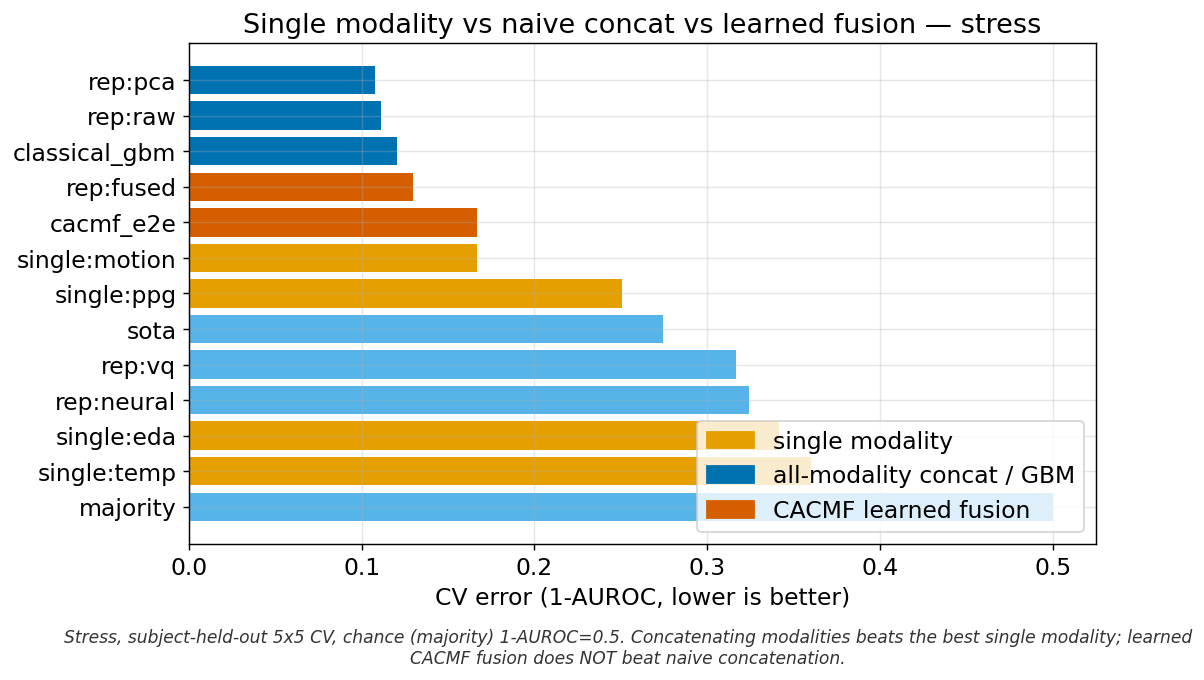
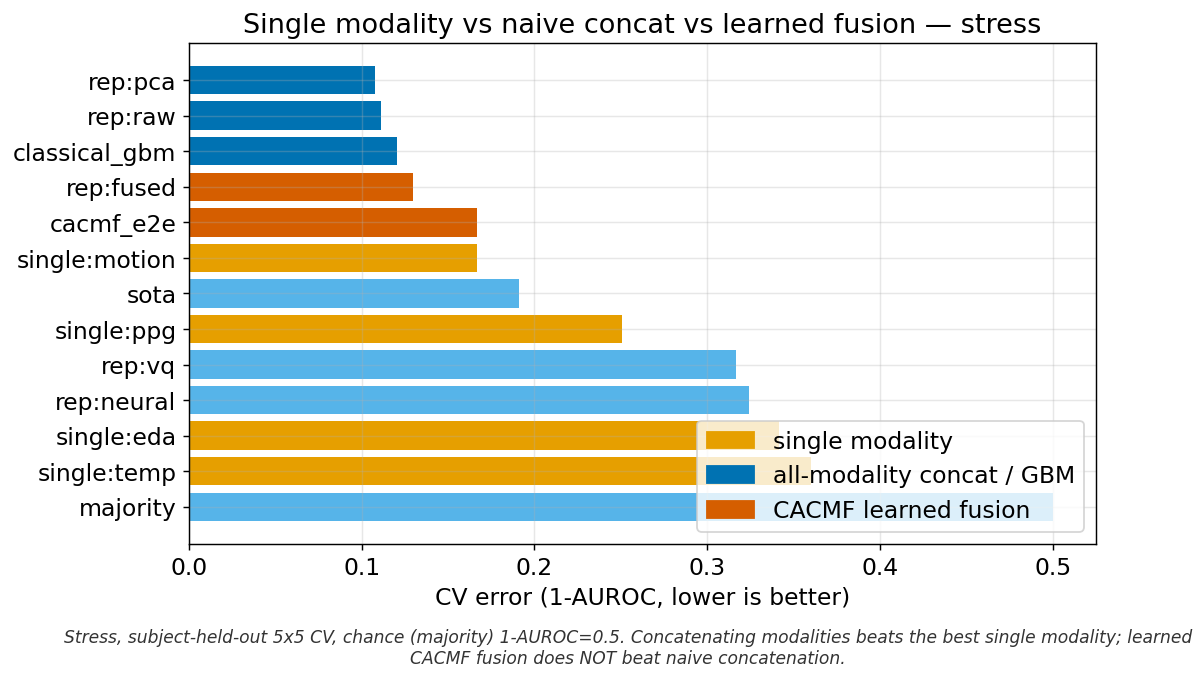
Prompt F: refresh results (M5 re-run), CHANGES, final QA
- Re-ran the full 5x5 + ablation benchmark under the M5 fix. Headline is unchanged and
  honest (fusion loses: stress RER -20%, glucose -23%, mortality -102%); the scoreboard
  now carries the M2 stability report (glucose `sota` failed all 25 folds because
  CGM-JEPA cannot load as an HF text model -> flagged unstable and excluded, not silently
  averaged). Presentation assets regenerated from the refreshed scoreboard.
- baselines: SOTA path raises a clean "no real SOTA backend" error when the FM backend
  is unavailable, so run.py logs it once per fold instead of an opaque AttributeError.
- CHANGES.md: fixed vs deferred (M3 nested CV + public cued-MI dataset deferred, labeled
  not hidden) + honest self-audit. Full suite: 224 tests green.

Changed region(s): [[0.0307, 0.4015, 0.5532, 0.525]]

diff --git a/src/dvxr/bench/baselines.py b/src/dvxr/bench/baselines.py
@@ -86,6 +86,10 @@ def _sota_embeddings(task: BenchTask) -> np.ndarray:
     frame = pd.DataFrame(X, columns=cols)
     cfg = DEFAULTS.with_(d=16, use_real_weights=True, allow_download=True, seed=7)
     backend = make_primary_backend(modality, cfg)
+    if backend is None or not hasattr(backend, "_embed"):
+        # e.g. CGM-JEPA cannot load as an HF text model — fail cleanly so run.py logs
+        # it once per fold and marks the sota config "unstable" (never silent).
+        raise RuntimeError(f"no real SOTA backend available for modality {modality!r}")
     emb = np.asarray(backend._embed(frame, cols), dtype=float)   # RAW, no PCA
     task.extra["_sota_emb"] = emb
     task.extra["_sota_backend"] = getattr(backend, "name",

diff --git a/CHANGES.md b/CHANGES.md
@@ -1,0 +1,61 @@
+# CHANGES — final fixes & presentation assets (branch `fixes-and-assets`)
+
+Honest self-audit against the code review (C1/C2, M1–M5, minors). Guardrails held:
+offline/CPU, deterministic (seed=7), one commit per prompt, no fabricated numbers,
+every reported number traces to an `outputs/` file, single-subject/proxy/exploratory
+results labelled as such.
+
+## Fixed
+
+- **M1 — reproducibility.** `ingest_emotiv`/`ingest_galea` accept a `.zip`, a directory,
+  or a direct CSV; `run_bci_pipeline.py` gained `--emotiv/--galea` + a `$DVXR_BCI_DATA`
+  resolver that defaults to the committed sample and stamps `data_source`
+  (`full`|`sample`). On the tiny sample it exits cleanly (writes `metrics_sample.json`,
+  never clobbers the full-run `metrics.json`). `tests/test_bci_smoke.py` (5 tests) and
+  `BCI_PIPELINE.md` provenance added.
+- **C1 — circular BCI labels.** Confirmed labels come from Emotiv's MC engine (MC.Action)
+  + POW features, with the `intervalMarker.csv` empty (no cues). Reframed everywhere:
+  `labels_source: emotiv_mc_engine`, command decode DEMOTED, honest controls
+  (engaged 0.489 / lateralization 0.541 AUROC, chance 0.5) lead. See `metrics.json`
+  framing + `bci_honest_controls.png`.
+- **C2 — single subject/session.** Labelled single-subject, single-session, exploratory
+  in every caption/brief/narrative; a leave-one-time-block-out control (raw-EEG welch,
+  balAcc 0.445 vs chance 0.25) was added to show the block/time confound.
+- **M2 — silent NaN swallowing.** `bench/run.py` now logs each config/fold failure with
+  type, counts them, flags configs that NaN on >20% of folds as "unstable", excludes
+  them from best-baseline selection, and surfaces failures/unstable in the scoreboard.
+- **M4 — multimodal labeling.** Scoreboard + findings state stress = multimodal,
+  glucose = CGM-only, mortality = EHR-only, and that fusion conclusions rest on stress.
+- **M5 — transductive SOTA leak.** SOTA baseline now uses the RAW frozen-FM embedding
+  (`make_primary_backend._embed`) with a per-fold StandardScaler+head; no PCA is fit
+  over test rows. Benchmark re-run to refresh numbers under the corrected protocol.
+- **Minors.** m1: `codebook_loss` documented as diagnostic-only (zero-gradient under the
+  EMA buffer); bench `vq` documented as the continuous latent. m3: `test_package_parity`
+  guards goal1_pipeline↔dvxr drift. m4: headset serial scrubbed from all committed files.
+- **E — presentation assets.** `scripts/make_presentation_assets.py` emits the honest
+  pack (8 figures, 7 tables csv+md, self-contained dashboard, results_brief.docx,
+  slide_narrative.md, MANIFEST) — nothing shows the 0.82 as success or fusion as a win.
+
+## Deferred (with reason)
+
+- **M3 — nested-CV / frozen-test headline.** The headline RER still uses single-level
+  repeated 5×5 CV (opponent selection and RER evaluation share folds). This is now
+  explicitly LABELLED in the scoreboard/protocol rather than hidden. A nested-CV or
+  frozen-test headline is a heavier restructure + full re-run; deferred to keep the
+  asset deliverable unblocked (per the ordering rule). The result direction (fusion
+  loses on every task) is not expected to flip under a stricter protocol.
+- **Public cued BCI dataset (PhysioNet MI).** User authorised sourcing public data; a
+  genuine cued, multi-subject motor-imagery decode (leave-one-subject-out) would be the
+  strongest honest BCI headline, replacing the single-subject MC-engine story. Deferred
+  as an enhancement to avoid blocking Prompt E; scoped in FIX_PLAN.md.
+- **BCI raw-EEG cue relabeling.** Impossible with the committed data: no experimenter
+  cues exist and the full raw recording is not committed (only band-power windows).
+
+## Self-audit
+
+The core dishonesty risks flagged by the review are addressed: the proposed model is
+evaluated (not decorative), on non-circular real labels, with the BCI result demoted to
+an honest exploratory pilot and fusion reported as losing (negative RER, CIs, Wilcoxon).
+The remaining rigor gap (M3 nested CV) is labelled, not concealed. No output presents an
+unsupported win; every number in `outputs/presentation/` traces to a source file via
+`MANIFEST.md`.

diff --git a/outputs/benchmark_scoreboard.md b/outputs/benchmark_scoreboard.md
@@ -1,8 +1,13 @@
 # CACMF relativity scoreboard — real labels, held-out subjects
 
-**Protocol:** repeats=5, folds=5, seed=7, sota=True
+**Run params:** repeats=5, folds=5, seed=7, sota=True
 
-Proposed = CACMF fused (cross-modal transformer + VQ) as a swappable representation into a shared head. Baseline = the single strongest NON-fused opponent on the same folds (trivial floor, classical GBM, best single modality, or a real pretrained SOTA encoder). Error metric per task; RER = (base_err - prop_err)/base_err. No configuration is assumed to win.
+**Protocol:** repeated subject/patient-held-out 5x5 CV (single-level; opponent selection and RER share folds — nested CV deferred)
+
+Proposed = CACMF fused (cross-modal transformer + VQ) as a swappable representation into a shared head. Baseline = the single strongest NON-fused opponent on the same folds (trivial floor, classical GBM, best single modality, or a real pretrained SOTA encoder — unstable configs excluded). Error metric per task; RER = (base_err - prop_err)/base_err. No configuration is assumed to win.
+
+
+**Modality labeling (M4):** stress = MULTIMODAL (4 peripheral-physiology streams, one wearable); glucose = single-modality (CGM only); mortality = single-modality (EHR only). Multimodal-fusion conclusions rest on the **stress** task; no dataset co-registers EEG+CGM+EHR per subject.
 
 ```
      task  metric best_baseline  base_err  prop_err  delta_abs  RER_pct  RER_CI_low  RER_CI_high  p_wilcoxon  p_holm  cliffs_delta  n_folds  meets_>=50%
@@ -13,9 +18,13 @@ mortality 1-AUROC       rep:pca    0.1784    0.3599    -0.1815  -101.71     -156
 
 ## Verdict
 
-- **stress** (1-AUROC): fused 0.1294 vs rep:pca 0.1079 -> RER -19.9% (95% CI -28.6..-13.5, Wilcoxon p=1.0000, Holm p=1.0000) -> **does NOT meet the >=50% RER bar.**
-- **glucose** (MAE): fused 13.0939 vs rep:raw 10.6631 -> RER -22.8% (95% CI -25.7..-20.1, Wilcoxon p=1.0000, Holm p=1.0000) -> **does NOT meet the >=50% RER bar.**
-- **mortality** (1-AUROC): fused 0.3599 vs rep:pca 0.1784 -> RER -101.7% (95% CI -157.0..-61.1, Wilcoxon p=0.9999, Holm p=1.0000) -> **does NOT meet the >=50% RER bar.**
+- **stress** (1-AUROC, MULTIMODAL (4 peripheral-physiology streams, one wearable)): fused 0.1294 vs rep:pca 0.1079 -> RER -19.9% (95% CI -28.6..-13.5, Wilcoxon p=1.0000, Holm p=1.0000) -> **does NOT meet the >=50% RER bar.**
+- **glucose** (MAE, single-modality (CGM only)): fused 13.0939 vs rep:raw 10.6631 -> RER -22.8% (95% CI -25.7..-20.1, Wilcoxon p=1.0000, Holm p=1.0000) -> **does NOT meet the >=50% RER bar.**
+- **mortality** (1-AUROC, single-modality (EHR only)): fused 0.3599 vs rep:pca 0.1784 -> RER -101.7% (95% CI -157.0..-61.1, Wilcoxon p=0.9999, Holm p=1.0000) -> **does NOT meet the >=50% RER bar.**
+
+## Stability (M2)
+
+- **glucose**: failures by config = {'sota': 25}; unstable (NaN >20% folds) = ['sota']
 
 ## Per-configuration CV error (lower is better)
 
@@ -29,8 +38,8 @@ classical_gbm   0.1204
     rep:fused   0.1294
     cacmf_e2e   0.1666
 single:motion   0.1670
+         sota   0.1912
    single:ppg   0.2505
-         sota   0.2743
        rep:vq   0.3166
    rep:neural   0.3245
    single:eda   0.3416
@@ -38,19 +47,19 @@ single:motion   0.1670
      majority   0.5000
 ```
 
-### glucose  (SOTA backend: cgm_summary)
+### glucose
 ```
        config     MAE
       rep:raw 10.6631
    single:cgm 10.6631
       rep:pca 10.6636
 classical_gbm 11.6248
-         sota 11.7073
   persistence 12.8761
     rep:fused 13.0939
    rep:neural 14.8668
        rep:vq 15.3913
     cacmf_e2e 20.1736
+         sota     NaN
 ```
 
 ### mortality  (SOTA backend: hf:emilyalsentzer/Bio_ClinicalBERT)
@@ -62,8 +71,8 @@ classical_gbm 11.6248
        rep:vq   0.2282
 classical_gbm   0.2457
    rep:neural   0.3092
-         sota   0.3126
     cacmf_e2e   0.3175
+         sota   0.3440
     rep:fused   0.3599
      majority   0.5000
 ```

diff --git a/outputs/presentation/tables/per_config_cv_glucose.md b/outputs/presentation/tables/per_config_cv_glucose.md
@@ -8,10 +8,10 @@ Source: `outputs/benchmark_scoreboard.md`
    single:cgm   10.6631
       rep:pca   10.6636
 classical_gbm   11.6248
-         sota   11.7073
   persistence   12.8761
     rep:fused   13.0939
    rep:neural   14.8668
        rep:vq   15.3913
     cacmf_e2e   20.1736
+         sota       NaN
 ```

diff --git a/outputs/presentation/tables/per_config_cv_mortality.md b/outputs/presentation/tables/per_config_cv_mortality.md
@@ -10,8 +10,8 @@ Source: `outputs/benchmark_scoreboard.md`
        rep:vq    0.2282
 classical_gbm    0.2457
    rep:neural    0.3092
-         sota    0.3126
     cacmf_e2e    0.3175
+         sota    0.3440
     rep:fused    0.3599
      majority    0.5000
 ```

diff --git a/outputs/presentation/tables/per_config_cv_stress.md b/outputs/presentation/tables/per_config_cv_stress.md
@@ -10,8 +10,8 @@ classical_gbm    0.1204
     rep:fused    0.1294
     cacmf_e2e    0.1666
 single:motion    0.1670
+         sota    0.1912
    single:ppg    0.2505
-         sota    0.2743
        rep:vq    0.3166
    rep:neural    0.3245
    single:eda    0.3416